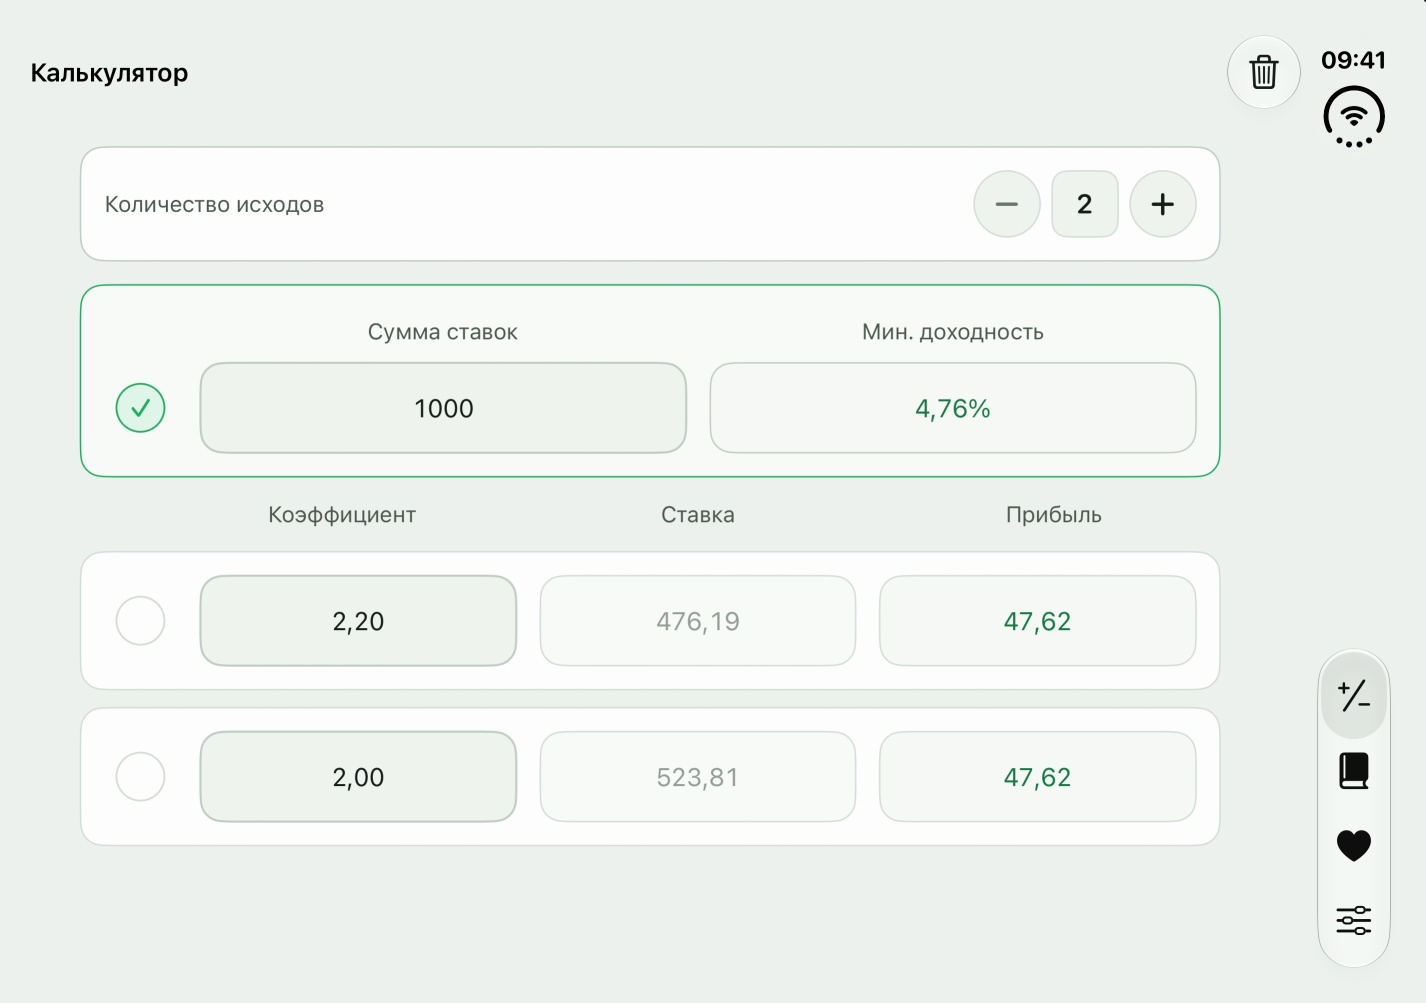
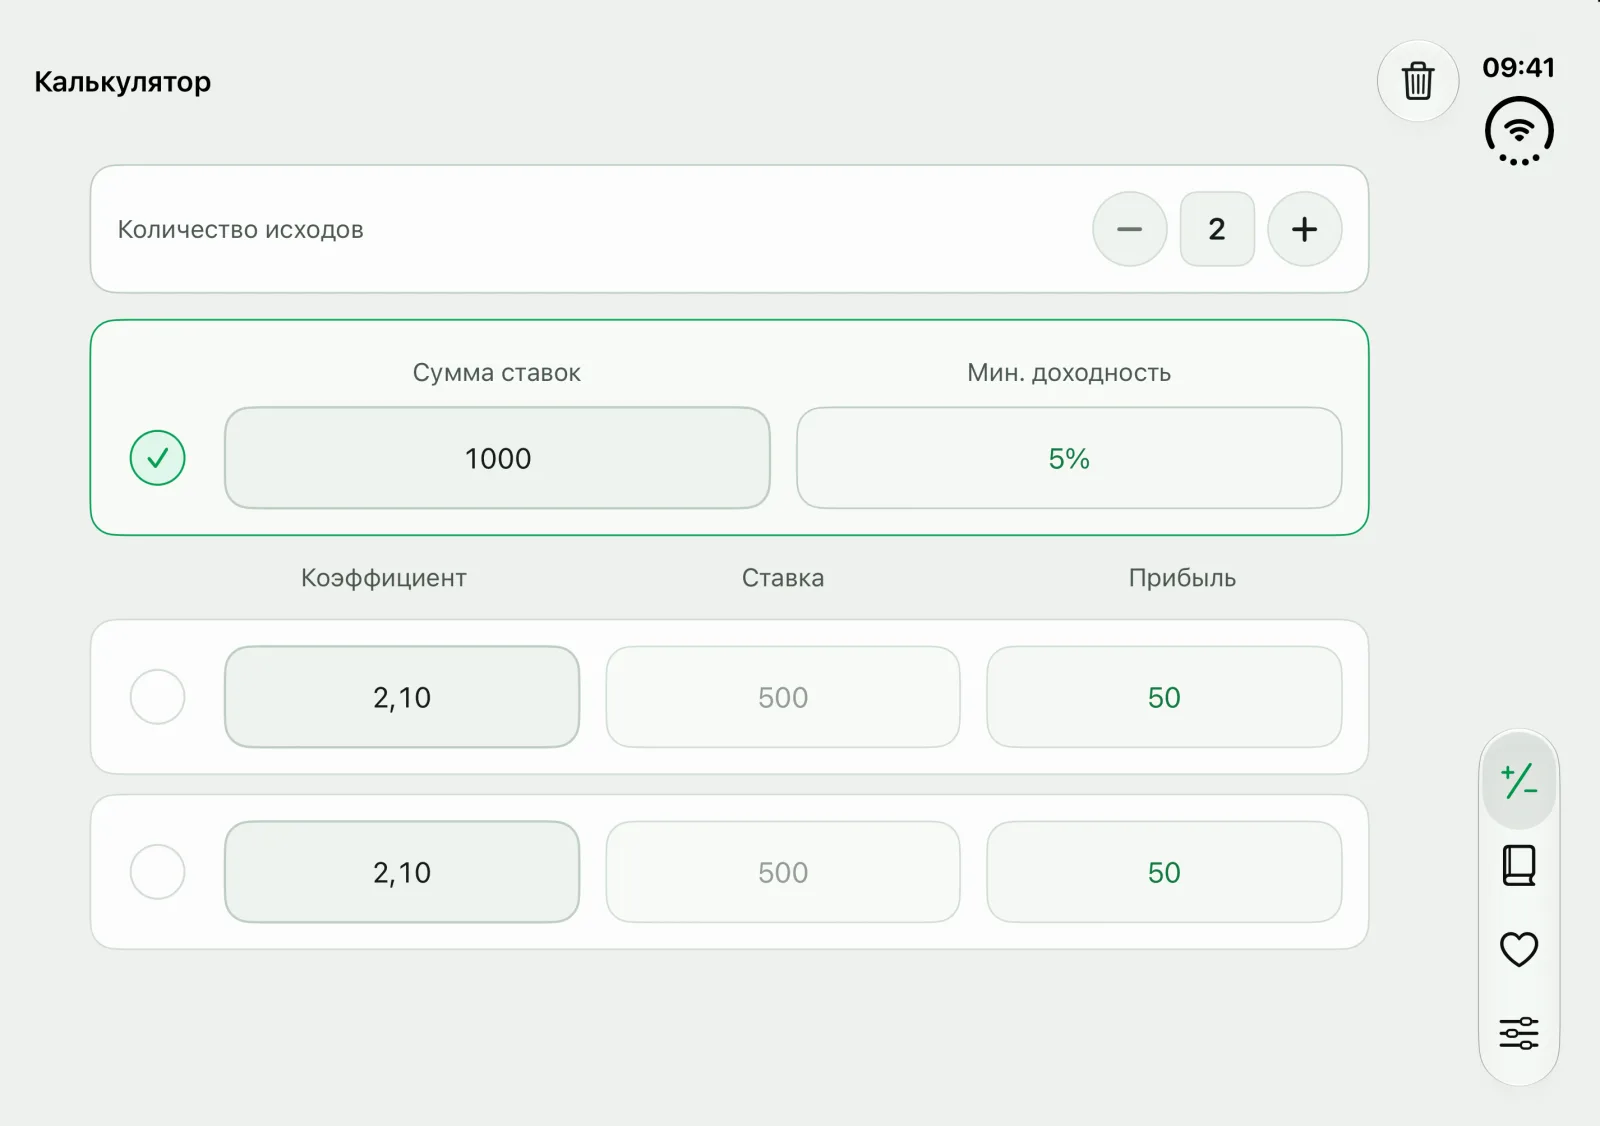
Add French and dark-theme screenshots
- New iPhone, iPad and unfolded iPhone Duo captures for en, ru and fr in light and dark themes; dark ones load under prefers-color-scheme: dark.
- The landscape iPad capture is now 4:3, so its frame and place in the composition are adjusted.
- Alt texts no longer quote a 4.76% return: the new Duo capture shows the 2.10 / 2.10 example.
- Remove the unused ipad-*.webp files.

diff --git a/fr/index.html b/fr/index.html
@@ -27,8 +27,8 @@
     <meta name="twitter:card" content="summary_large_image" />
     <link rel="icon" type="image/png" sizes="64x64" href="/surebet-support/assets/icon-64.png" />
     <link rel="apple-touch-icon" href="/surebet-support/assets/icon.png" />
-    <link rel="stylesheet" href="/surebet-support/assets/site.css?v=4" />
-    <script type="application/ld+json">{"@context":"https://schema.org","@type":"MobileApplication","name":"Surebet Stake Calculator","description":"Calculateur de surebet et de paris d’arbitrage : répartissez une mise entre 2 et 20 issues et voyez le gain et le rendement de chacune.","operatingSystem":"iOS 16.0 or later, iPadOS 16.0 or later","applicationCategory":"FinanceApplication","inLanguage":"fr","url":"https://iaroslaval.github.io/surebet-support/fr/","downloadUrl":"https://apps.apple.com/app/id1667102550","installUrl":"https://apps.apple.com/app/id1667102550","image":"https://iaroslaval.github.io/surebet-support/assets/icon-256.png","screenshot":"https://iaroslaval.github.io/surebet-support/assets/iphone-en.webp","offers":{"@type":"Offer","price":"0","priceCurrency":"USD"},"author":{"@type":"Person","name":"Iaroslav Beldin","email":"mailto:beldin_dev@icloud.com"}}</script>
+    <link rel="stylesheet" href="/surebet-support/assets/site.css?v=5" />
+    <script type="application/ld+json">{"@context":"https://schema.org","@type":"MobileApplication","name":"Surebet Stake Calculator","description":"Calculateur de surebet et de paris d’arbitrage : répartissez une mise entre 2 et 20 issues et voyez le gain et le rendement de chacune.","operatingSystem":"iOS 16.0 or later, iPadOS 16.0 or later","applicationCategory":"FinanceApplication","inLanguage":"fr","url":"https://iaroslaval.github.io/surebet-support/fr/","downloadUrl":"https://apps.apple.com/app/id1667102550","installUrl":"https://apps.apple.com/app/id1667102550","image":"https://iaroslaval.github.io/surebet-support/assets/icon-256.png","screenshot":"https://iaroslaval.github.io/surebet-support/assets/iphone-fr.webp","offers":{"@type":"Offer","price":"0","priceCurrency":"USD"},"author":{"@type":"Person","name":"Iaroslav Beldin","email":"mailto:beldin_dev@icloud.com"}}</script>
   </head>
   <body>
     <a class="skip" href="#main">Aller au contenu</a>
@@ -54,9 +54,9 @@
           </div>
           <figure class="hero-visual">
             <div class="device-stage">
-              <div class="device device-iphone"><span class="hardware"><picture><img src="/surebet-support/assets/iphone-en.webp?v=4" alt="Surebet Stake Calculator sur iPhone : deux issues et un rendement de 5 %" width="720" height="1566" decoding="async" /></picture></span></div>
-              <div class="device device-mini"><span class="hardware"><picture><img src="/surebet-support/assets/mini-en.webp?v=4" alt="Le calculateur sur iPad mini à l’horizontale" width="1380" height="901" loading="lazy" decoding="async" /></picture></span></div>
-              <div class="device device-duo"><span class="hardware"><picture><img src="/surebet-support/assets/duo-en.webp?v=4" alt="Le calculateur sur un iPhone Duo déplié avec un rendement de 4,76 %" width="1426" height="1003" loading="lazy" decoding="async" /></picture></span></div>
+              <div class="device device-iphone"><span class="hardware"><picture><source media="(prefers-color-scheme: dark)" srcset="/surebet-support/assets/iphone-fr-dark.webp?v=5" /><img src="/surebet-support/assets/iphone-fr.webp?v=5" alt="Surebet Stake Calculator sur iPhone : deux issues et un rendement de 5 %" width="1000" height="2175" decoding="async" /></picture></span></div>
+              <div class="device device-mini"><span class="hardware"><picture><source media="(prefers-color-scheme: dark)" srcset="/surebet-support/assets/mini-fr-dark.webp?v=5" /><img src="/surebet-support/assets/mini-fr.webp?v=5" alt="Le calculateur sur iPad à l’horizontale" width="1600" height="1200" loading="lazy" decoding="async" /></picture></span></div>
+              <div class="device device-duo"><span class="hardware"><picture><source media="(prefers-color-scheme: dark)" srcset="/surebet-support/assets/duo-fr-dark.webp?v=5" /><img src="/surebet-support/assets/duo-fr.webp?v=5" alt="Le calculateur sur un iPhone Duo déplié" width="1600" height="1126" loading="lazy" decoding="async" /></picture></span></div>
             </div>
           </figure>
         </div>

diff --git a/ru/index.html b/ru/index.html
@@ -27,7 +27,7 @@
     <meta name="twitter:card" content="summary_large_image" />
     <link rel="icon" type="image/png" sizes="64x64" href="/surebet-support/assets/icon-64.png" />
     <link rel="apple-touch-icon" href="/surebet-support/assets/icon.png" />
-    <link rel="stylesheet" href="/surebet-support/assets/site.css?v=4" />
+    <link rel="stylesheet" href="/surebet-support/assets/site.css?v=5" />
     <script type="application/ld+json">{"@context":"https://schema.org","@type":"MobileApplication","name":"Surebet Stake Calculator","description":"Калькулятор букмекерских вилок: распределите ставку между 2–20 исходами и посмотрите прибыль и доходность по каждому.","operatingSystem":"iOS 16.0 or later, iPadOS 16.0 or later","applicationCategory":"FinanceApplication","inLanguage":"ru","url":"https://iaroslaval.github.io/surebet-support/ru/","downloadUrl":"https://apps.apple.com/app/id1667102550","installUrl":"https://apps.apple.com/app/id1667102550","image":"https://iaroslaval.github.io/surebet-support/assets/icon-256.png","screenshot":"https://iaroslaval.github.io/surebet-support/assets/iphone-ru.webp","offers":{"@type":"Offer","price":"0","priceCurrency":"USD"},"author":{"@type":"Person","name":"Iaroslav Beldin","email":"mailto:beldin_dev@icloud.com"}}</script>
   </head>
   <body>
@@ -54,9 +54,9 @@
           </div>
           <figure class="hero-visual">
             <div class="device-stage">
-              <div class="device device-iphone"><span class="hardware"><picture><img src="/surebet-support/assets/iphone-ru.webp?v=4" alt="Surebet Stake Calculator на iPhone: два исхода и доходность 5 %" width="720" height="1566" decoding="async" /></picture></span></div>
-              <div class="device device-mini"><span class="hardware"><picture><img src="/surebet-support/assets/mini-ru.webp?v=4" alt="Калькулятор на горизонтальном iPad mini" width="1380" height="901" loading="lazy" decoding="async" /></picture></span></div>
-              <div class="device device-duo"><span class="hardware"><picture><img src="/surebet-support/assets/duo-ru.webp?v=4" alt="Калькулятор на раскрытом iPhone Duo с доходностью 4,76 %" width="1426" height="1003" loading="lazy" decoding="async" /></picture></span></div>
+              <div class="device device-iphone"><span class="hardware"><picture><source media="(prefers-color-scheme: dark)" srcset="/surebet-support/assets/iphone-ru-dark.webp?v=5" /><img src="/surebet-support/assets/iphone-ru.webp?v=5" alt="Surebet Stake Calculator на iPhone: два исхода и доходность 5 %" width="1000" height="2175" decoding="async" /></picture></span></div>
+              <div class="device device-mini"><span class="hardware"><picture><source media="(prefers-color-scheme: dark)" srcset="/surebet-support/assets/mini-ru-dark.webp?v=5" /><img src="/surebet-support/assets/mini-ru.webp?v=5" alt="Калькулятор на горизонтальном iPad" width="1600" height="1200" loading="lazy" decoding="async" /></picture></span></div>
+              <div class="device device-duo"><span class="hardware"><picture><source media="(prefers-color-scheme: dark)" srcset="/surebet-support/assets/duo-ru-dark.webp?v=5" /><img src="/surebet-support/assets/duo-ru.webp?v=5" alt="Калькулятор на раскрытом iPhone Duo" width="1600" height="1126" loading="lazy" decoding="async" /></picture></span></div>
             </div>
           </figure>
         </div>

diff --git a/en/index.html b/en/index.html
@@ -27,7 +27,7 @@
     <meta name="twitter:card" content="summary_large_image" />
     <link rel="icon" type="image/png" sizes="64x64" href="/surebet-support/assets/icon-64.png" />
     <link rel="apple-touch-icon" href="/surebet-support/assets/icon.png" />
-    <link rel="stylesheet" href="/surebet-support/assets/site.css?v=4" />
+    <link rel="stylesheet" href="/surebet-support/assets/site.css?v=5" />
     <script type="application/ld+json">{"@context":"https://schema.org","@type":"MobileApplication","name":"Surebet Stake Calculator","description":"Surebet and arbitrage betting calculator: split a stake across 2–20 outcomes and see the profit and ROI for each.","operatingSystem":"iOS 16.0 or later, iPadOS 16.0 or later","applicationCategory":"FinanceApplication","inLanguage":"en","url":"https://iaroslaval.github.io/surebet-support/en/","downloadUrl":"https://apps.apple.com/app/id1667102550","installUrl":"https://apps.apple.com/app/id1667102550","image":"https://iaroslaval.github.io/surebet-support/assets/icon-256.png","screenshot":"https://iaroslaval.github.io/surebet-support/assets/iphone-en.webp","offers":{"@type":"Offer","price":"0","priceCurrency":"USD"},"author":{"@type":"Person","name":"Iaroslav Beldin","email":"mailto:beldin_dev@icloud.com"}}</script>
   </head>
   <body>
@@ -54,9 +54,9 @@
           </div>
           <figure class="hero-visual">
             <div class="device-stage">
-              <div class="device device-iphone"><span class="hardware"><picture><img src="/surebet-support/assets/iphone-en.webp?v=4" alt="Surebet Stake Calculator on iPhone: two outcomes and a 5% return" width="720" height="1566" decoding="async" /></picture></span></div>
-              <div class="device device-mini"><span class="hardware"><picture><img src="/surebet-support/assets/mini-en.webp?v=4" alt="The calculator on iPad mini in landscape" width="1380" height="901" loading="lazy" decoding="async" /></picture></span></div>
-              <div class="device device-duo"><span class="hardware"><picture><img src="/surebet-support/assets/duo-en.webp?v=4" alt="The calculator on an unfolded iPhone Duo with a 4.76% return" width="1426" height="1003" loading="lazy" decoding="async" /></picture></span></div>
+              <div class="device device-iphone"><span class="hardware"><picture><source media="(prefers-color-scheme: dark)" srcset="/surebet-support/assets/iphone-en-dark.webp?v=5" /><img src="/surebet-support/assets/iphone-en.webp?v=5" alt="Surebet Stake Calculator on iPhone: two outcomes and a 5% return" width="1000" height="2175" decoding="async" /></picture></span></div>
+              <div class="device device-mini"><span class="hardware"><picture><source media="(prefers-color-scheme: dark)" srcset="/surebet-support/assets/mini-en-dark.webp?v=5" /><img src="/surebet-support/assets/mini-en.webp?v=5" alt="The calculator on iPad in landscape" width="1600" height="1200" loading="lazy" decoding="async" /></picture></span></div>
+              <div class="device device-duo"><span class="hardware"><picture><source media="(prefers-color-scheme: dark)" srcset="/surebet-support/assets/duo-en-dark.webp?v=5" /><img src="/surebet-support/assets/duo-en.webp?v=5" alt="The calculator on an unfolded iPhone Duo" width="1600" height="1126" loading="lazy" decoding="async" /></picture></span></div>
             </div>
           </figure>
         </div>

diff --git a/index.html b/index.html
@@ -27,7 +27,7 @@
     <meta name="twitter:card" content="summary_large_image" />
     <link rel="icon" type="image/png" sizes="64x64" href="/surebet-support/assets/icon-64.png" />
     <link rel="apple-touch-icon" href="/surebet-support/assets/icon.png" />
-    <link rel="stylesheet" href="/surebet-support/assets/site.css?v=4" />
+    <link rel="stylesheet" href="/surebet-support/assets/site.css?v=5" />
     <script type="application/ld+json">{"@context":"https://schema.org","@type":"MobileApplication","name":"Surebet Stake Calculator","description":"Surebet and arbitrage betting calculator: split a stake across 2–20 outcomes and see the profit and ROI for each.","operatingSystem":"iOS 16.0 or later, iPadOS 16.0 or later","applicationCategory":"FinanceApplication","inLanguage":"en","url":"https://iaroslaval.github.io/surebet-support/en/","downloadUrl":"https://apps.apple.com/app/id1667102550","installUrl":"https://apps.apple.com/app/id1667102550","image":"https://iaroslaval.github.io/surebet-support/assets/icon-256.png","screenshot":"https://iaroslaval.github.io/surebet-support/assets/iphone-en.webp","offers":{"@type":"Offer","price":"0","priceCurrency":"USD"},"author":{"@type":"Person","name":"Iaroslav Beldin","email":"mailto:beldin_dev@icloud.com"}}</script>
   </head>
   <body>
@@ -54,9 +54,9 @@
           </div>
           <figure class="hero-visual">
             <div class="device-stage">
-              <div class="device device-iphone"><span class="hardware"><picture><img src="/surebet-support/assets/iphone-en.webp?v=4" alt="Surebet Stake Calculator on iPhone: two outcomes and a 5% return" width="720" height="1566" decoding="async" /></picture></span></div>
-              <div class="device device-mini"><span class="hardware"><picture><img src="/surebet-support/assets/mini-en.webp?v=4" alt="The calculator on iPad mini in landscape" width="1380" height="901" loading="lazy" decoding="async" /></picture></span></div>
-              <div class="device device-duo"><span class="hardware"><picture><img src="/surebet-support/assets/duo-en.webp?v=4" alt="The calculator on an unfolded iPhone Duo with a 4.76% return" width="1426" height="1003" loading="lazy" decoding="async" /></picture></span></div>
+              <div class="device device-iphone"><span class="hardware"><picture><source media="(prefers-color-scheme: dark)" srcset="/surebet-support/assets/iphone-en-dark.webp?v=5" /><img src="/surebet-support/assets/iphone-en.webp?v=5" alt="Surebet Stake Calculator on iPhone: two outcomes and a 5% return" width="1000" height="2175" decoding="async" /></picture></span></div>
+              <div class="device device-mini"><span class="hardware"><picture><source media="(prefers-color-scheme: dark)" srcset="/surebet-support/assets/mini-en-dark.webp?v=5" /><img src="/surebet-support/assets/mini-en.webp?v=5" alt="The calculator on iPad in landscape" width="1600" height="1200" loading="lazy" decoding="async" /></picture></span></div>
+              <div class="device device-duo"><span class="hardware"><picture><source media="(prefers-color-scheme: dark)" srcset="/surebet-support/assets/duo-en-dark.webp?v=5" /><img src="/surebet-support/assets/duo-en.webp?v=5" alt="The calculator on an unfolded iPhone Duo" width="1600" height="1126" loading="lazy" decoding="async" /></picture></span></div>
             </div>
           </figure>
         </div>

diff --git a/ru/privacy/index.html b/ru/privacy/index.html
@@ -27,7 +27,7 @@
     <meta name="twitter:card" content="summary_large_image" />
     <link rel="icon" type="image/png" sizes="64x64" href="/surebet-support/assets/icon-64.png" />
     <link rel="apple-touch-icon" href="/surebet-support/assets/icon.png" />
-    <link rel="stylesheet" href="/surebet-support/assets/site.css?v=4" />
+    <link rel="stylesheet" href="/surebet-support/assets/site.css?v=5" />
   </head>
   <body>
     <a class="skip" href="#main">Перейти к содержанию</a>

diff --git a/assets/site.css b/assets/site.css
@@ -372,10 +372,10 @@ p {
   display: none;
 }
 .device-mini {
-  --bezel: 3.25%;
-  --glass-edge: 2.2cqw;
-  --body-radius: 5.4% / 8%;
-  --screen-radius: 2.6% / 4%;
+  --bezel: 3%;
+  --glass-edge: 1.6cqw;
+  --body-radius: 5.4% / 7.2%;
+  --screen-radius: 2.6% / 3.5%;
 }
 .device-duo {
   --bezel: 1.9%;
@@ -428,9 +428,9 @@ p {
     --glass-edge: 0.5cqw;
   }
   .device-mini {
-    width: 78%;
+    width: 74%;
     top: 0;
-    right: 2%;
+    right: 3%;
   }
   .device-duo {
     z-index: 3;

diff --git a/fr/privacy/index.html b/fr/privacy/index.html
@@ -27,7 +27,7 @@
     <meta name="twitter:card" content="summary_large_image" />
     <link rel="icon" type="image/png" sizes="64x64" href="/surebet-support/assets/icon-64.png" />
     <link rel="apple-touch-icon" href="/surebet-support/assets/icon.png" />
-    <link rel="stylesheet" href="/surebet-support/assets/site.css?v=4" />
+    <link rel="stylesheet" href="/surebet-support/assets/site.css?v=5" />
   </head>
   <body>
     <a class="skip" href="#main">Aller au contenu</a>

diff --git a/404.html b/404.html
@@ -28,7 +28,7 @@
     <meta name="twitter:card" content="summary_large_image" />
     <link rel="icon" type="image/png" sizes="64x64" href="/surebet-support/assets/icon-64.png" />
     <link rel="apple-touch-icon" href="/surebet-support/assets/icon.png" />
-    <link rel="stylesheet" href="/surebet-support/assets/site.css?v=4" />
+    <link rel="stylesheet" href="/surebet-support/assets/site.css?v=5" />
   </head>
   <body>
     <a class="skip" href="#main">Skip to content</a>

diff --git a/en/privacy/index.html b/en/privacy/index.html
@@ -27,7 +27,7 @@
     <meta name="twitter:card" content="summary_large_image" />
     <link rel="icon" type="image/png" sizes="64x64" href="/surebet-support/assets/icon-64.png" />
     <link rel="apple-touch-icon" href="/surebet-support/assets/icon.png" />
-    <link rel="stylesheet" href="/surebet-support/assets/site.css?v=4" />
+    <link rel="stylesheet" href="/surebet-support/assets/site.css?v=5" />
   </head>
   <body>
     <a class="skip" href="#main">Skip to content</a>

diff --git a/tools/build.py b/tools/build.py
@@ -19,7 +19,7 @@ APP_ID = "1667102550"
 EMAIL = "beldin_dev@icloud.com"
 UPDATED = "2026-11-21"
 LANGS = ["en", "ru", "fr"]
-ASSET_VERSION = "4"
+ASSET_VERSION = "5"
 
 BADGE_WIDTH = {"en": 119.66407, "ru": 119.66407, "fr": 126.50751}  # badge viewBox at height 40
 
@@ -71,8 +71,8 @@ T: dict[str, dict] = {
         "facts": ["Free", "iOS 16 or later", "No account"],
         "shot_alt": {
             "iphone": "Surebet Stake Calculator on iPhone: two outcomes and a 5% return",
-            "mini": "The calculator on iPad mini in landscape",
-            "duo": "The calculator on an unfolded iPhone Duo with a 4.76% return",
+            "mini": "The calculator on iPad in landscape",
+            "duo": "The calculator on an unfolded iPhone Duo",
         },
         "how_kicker": "How it works",
         "how_h2": "Split a stake in three steps",
@@ -180,8 +180,8 @@ T: dict[str, dict] = {
         "facts": ["Бесплатно", "iOS 16 и новее", "Без регистрации"],
         "shot_alt": {
             "iphone": "Surebet Stake Calculator на iPhone: два исхода и доходность 5 %",
-            "mini": "Калькулятор на горизонтальном iPad mini",
-            "duo": "Калькулятор на раскрытом iPhone Duo с доходностью 4,76 %",
+            "mini": "Калькулятор на горизонтальном iPad",
+            "duo": "Калькулятор на раскрытом iPhone Duo",
         },
         "how_kicker": "Как это работает",
         "how_h2": "Расчёт вилки за три шага",
@@ -289,8 +289,8 @@ T: dict[str, dict] = {
         "facts": ["Gratuit", "iOS 16 ou version ultérieure", "Sans compte"],
         "shot_alt": {
             "iphone": "Surebet Stake Calculator sur iPhone : deux issues et un rendement de 5 %",
-            "mini": "Le calculateur sur iPad mini à l’horizontale",
-            "duo": "Le calculateur sur un iPhone Duo déplié avec un rendement de 4,76 %",
+            "mini": "Le calculateur sur iPad à l’horizontale",
+            "duo": "Le calculateur sur un iPhone Duo déplié",
         },
         "how_kicker": "Fonctionnement",
         "how_h2": "Répartir une mise en trois étapes",
@@ -625,9 +625,9 @@ def home(lang: str, canonical: str | None = None) -> str:
           </div>
           <figure class="hero-visual">
             <div class="device-stage">
-              <div class="device device-iphone"><span class="hardware">{picture(lang, 'iphone', alt['iphone'], 720, 1566, False)}</span></div>
-              <div class="device device-mini"><span class="hardware">{picture(lang, 'mini', alt['mini'], 1380, 901, True)}</span></div>
-              <div class="device device-duo"><span class="hardware">{picture(lang, 'duo', alt['duo'], 1426, 1003, True)}</span></div>
+              <div class="device device-iphone"><span class="hardware">{picture(lang, 'iphone', alt['iphone'], 1000, 2175, False)}</span></div>
+              <div class="device device-mini"><span class="hardware">{picture(lang, 'mini', alt['mini'], 1600, 1200, True)}</span></div>
+              <div class="device device-duo"><span class="hardware">{picture(lang, 'duo', alt['duo'], 1600, 1126, True)}</span></div>
             </div>
           </figure>
         </div>
